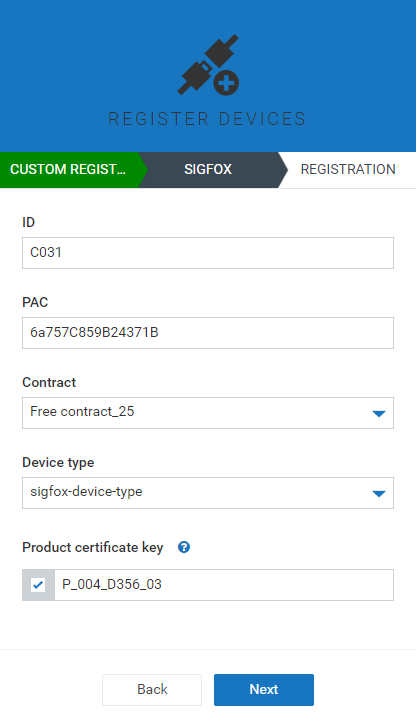
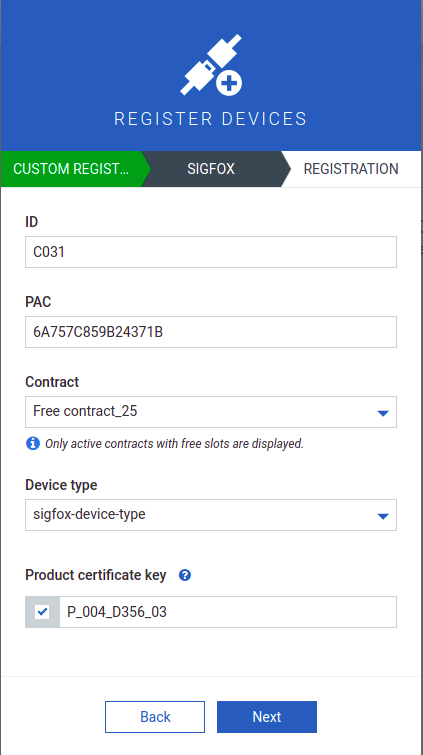
MTM-32124-Update-device-registration-screenshot-and-info-about-filtering-of-the-active-contracts
updated the registraction form image and contract details

diff --git a/content/protocol-integration/sigfox-bundle/register-device-sigfox.md b/content/protocol-integration/sigfox-bundle/register-device-sigfox.md
@@ -15,7 +15,7 @@ In the next window, fill in the required information:
 
 - **ID:** Unique device ID. The value must be a hexadecimal number.
 - **PAC:** Porting authorization code for your device. The value must be a hexadecimal number.
-- **Contract:** Choose your desired contract.
+- **Contract:** Choose your desired contract (contracts that are active and with free slots are listed).
 - **Device protocol:** Select your desired device protocol from the drop-down list.
 - **Product certificate key:** This key can be located in *https://partners.sigfox.com/*. Navigate to your device and copy the certificate key. If the checkbox is not selected and no product certificate key is specified, the device will be considered a prototype.
 
